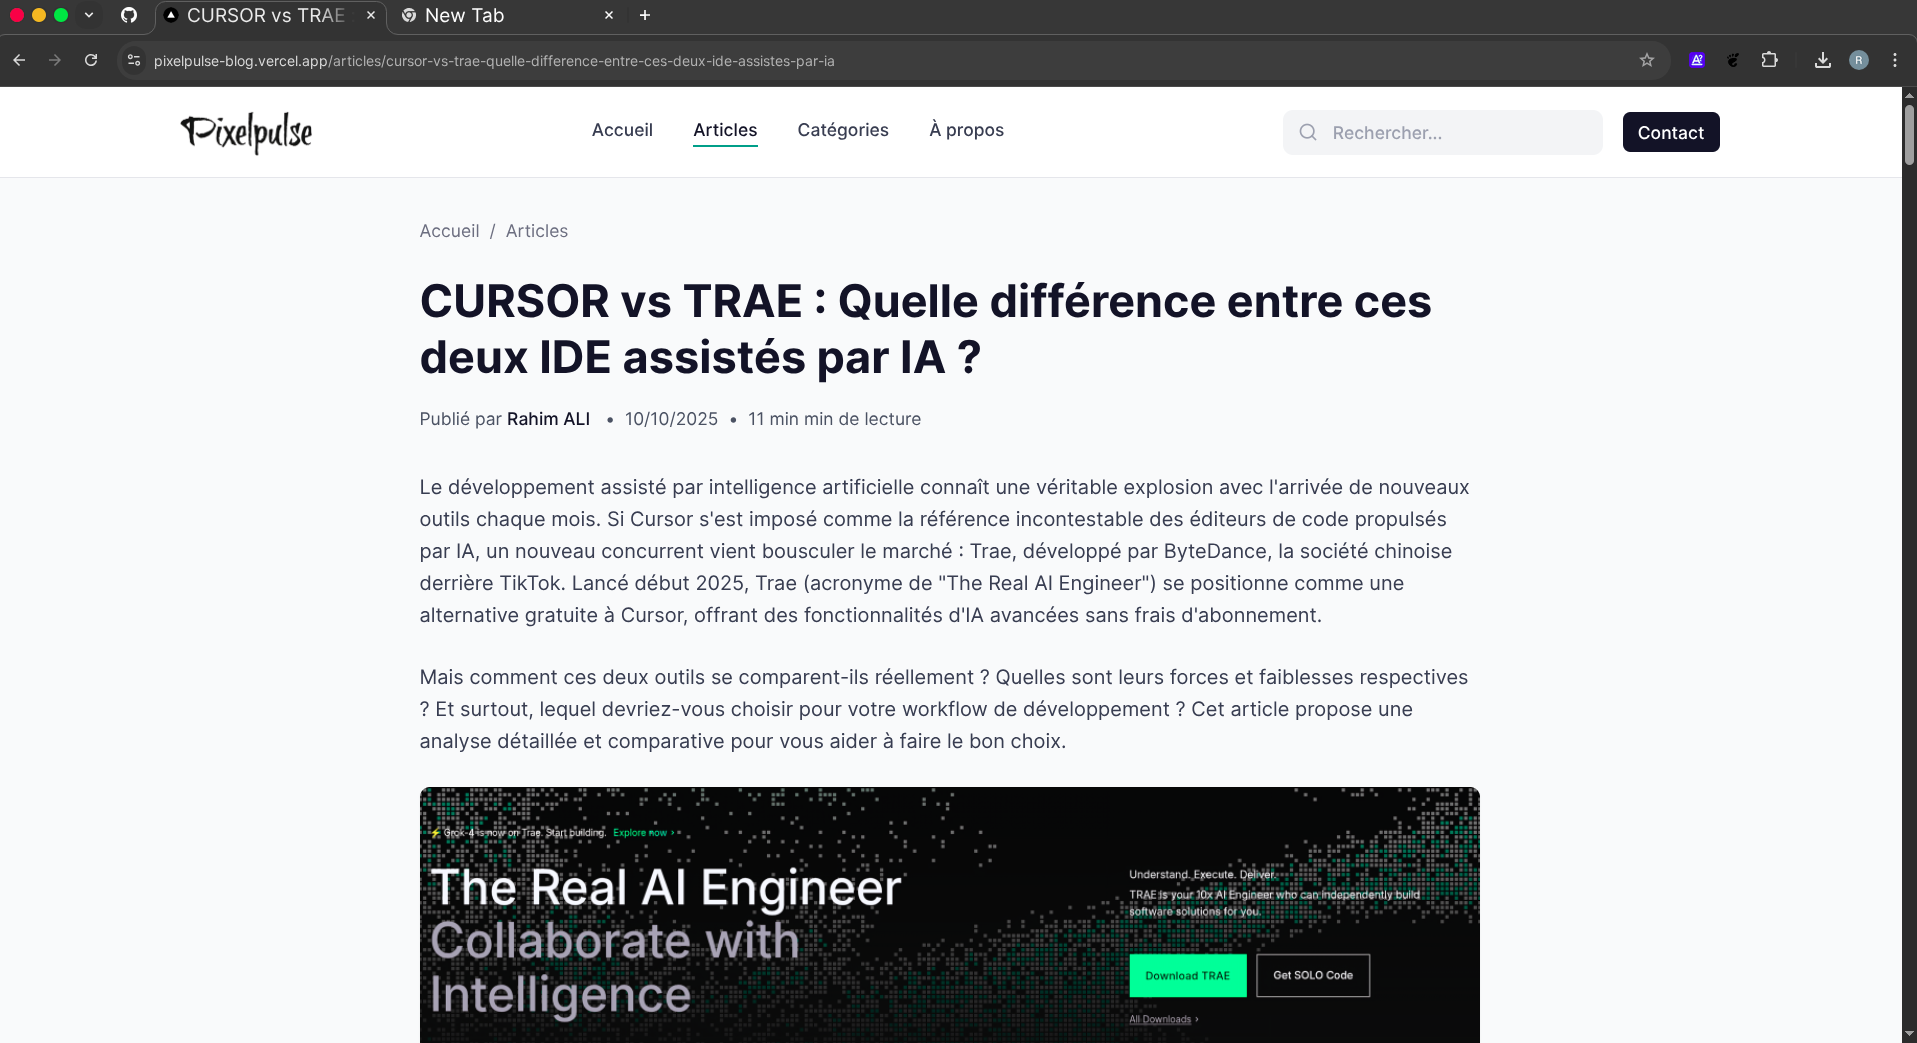
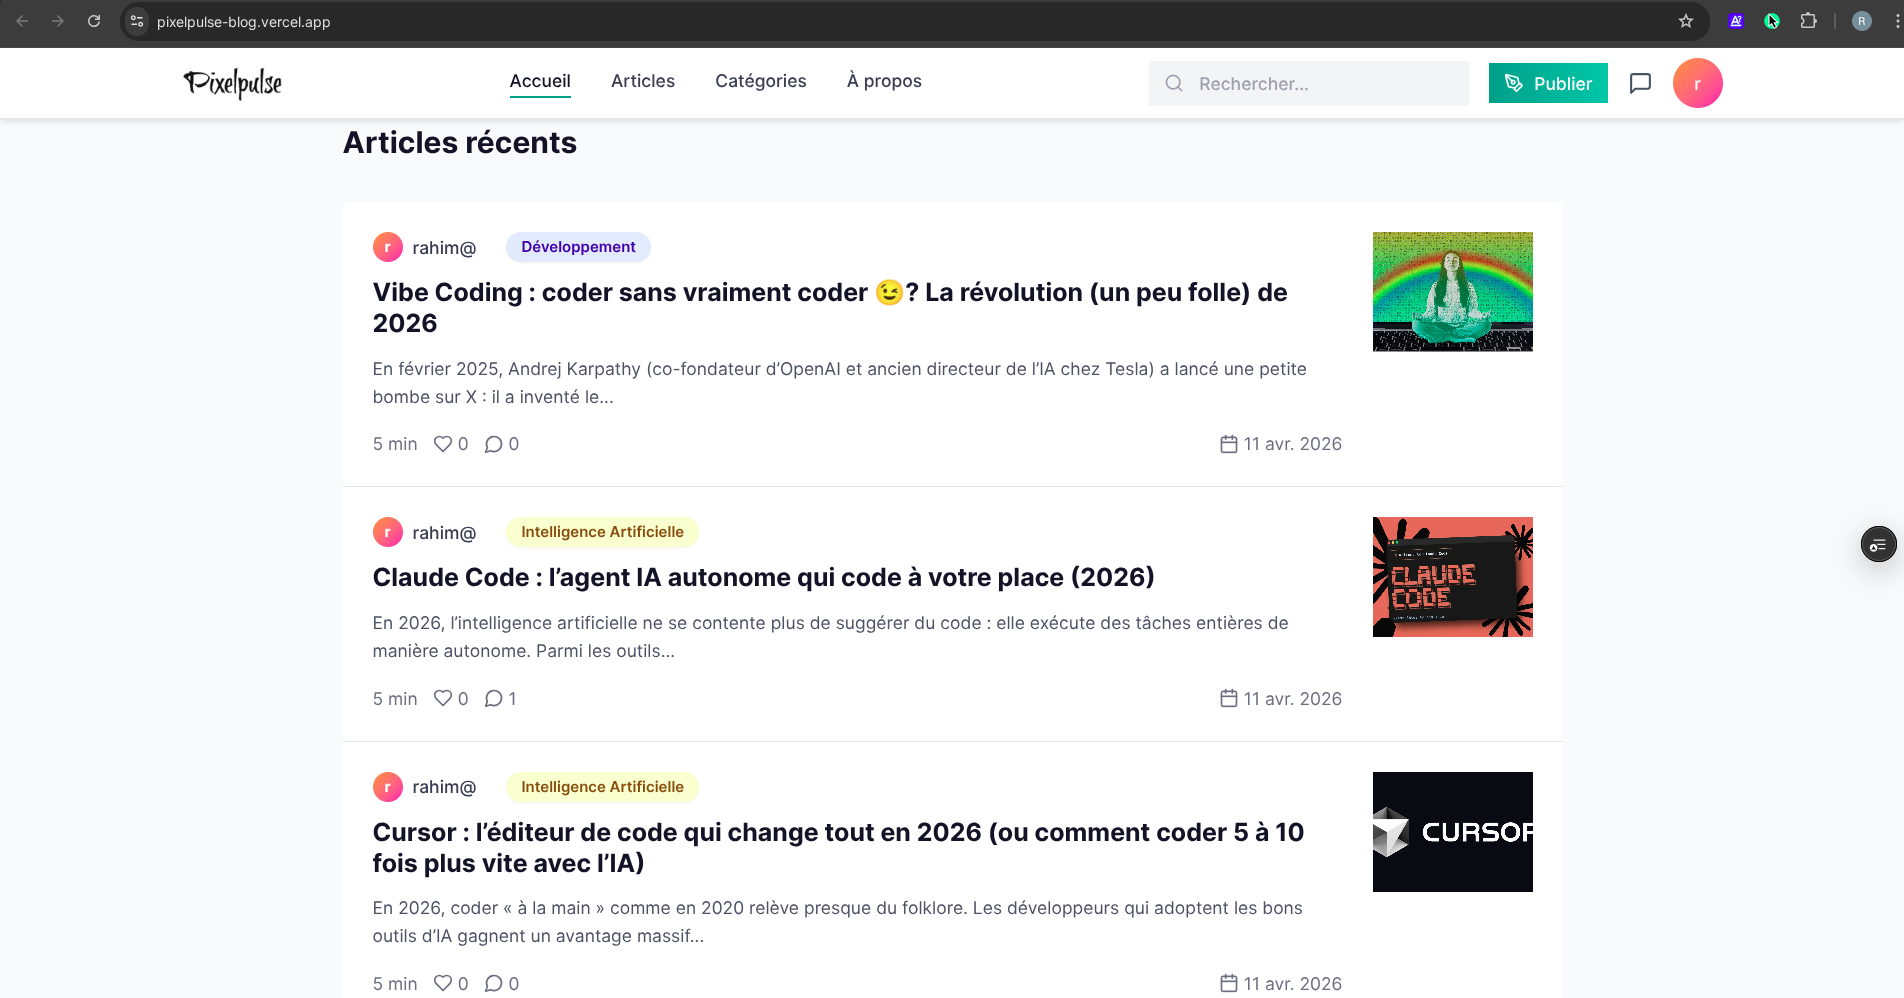
update readme

diff --git a/README.md b/README.md
@@ -4,8 +4,6 @@ PixelPulse is a modern and high-performance blog platform designed for developer
 
 ![Screenshot 1](./public/acceuil.png)
 ![Screenshot 2](./public/detail.png)
-![Screenshot 3](./public/tous.png)
-![Screenshot 4](placeholder_screenshot_4.png)
 
 ## 🌐 Live Demo
 